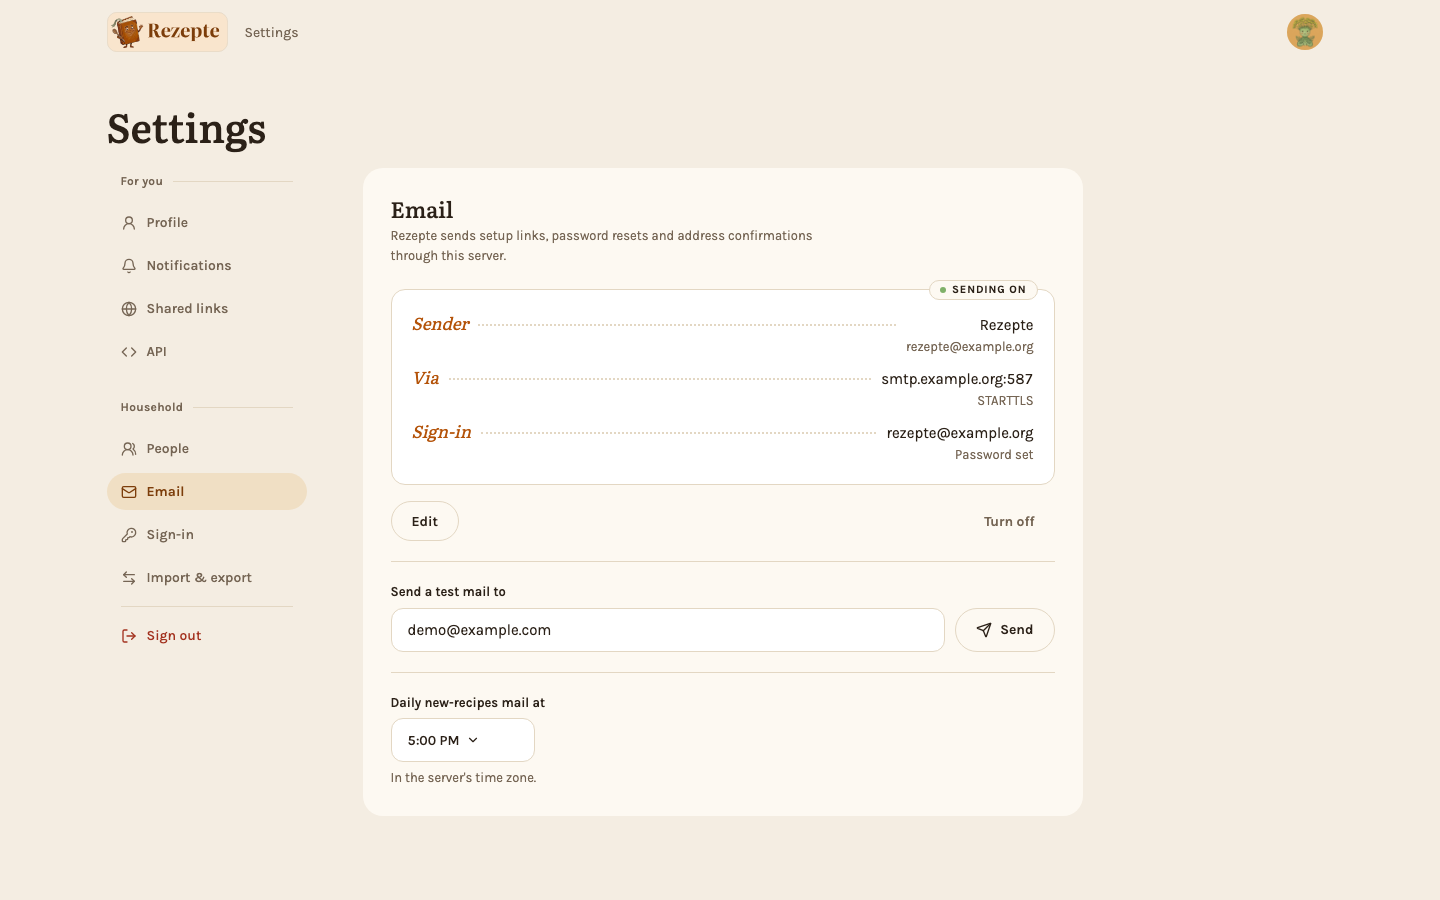
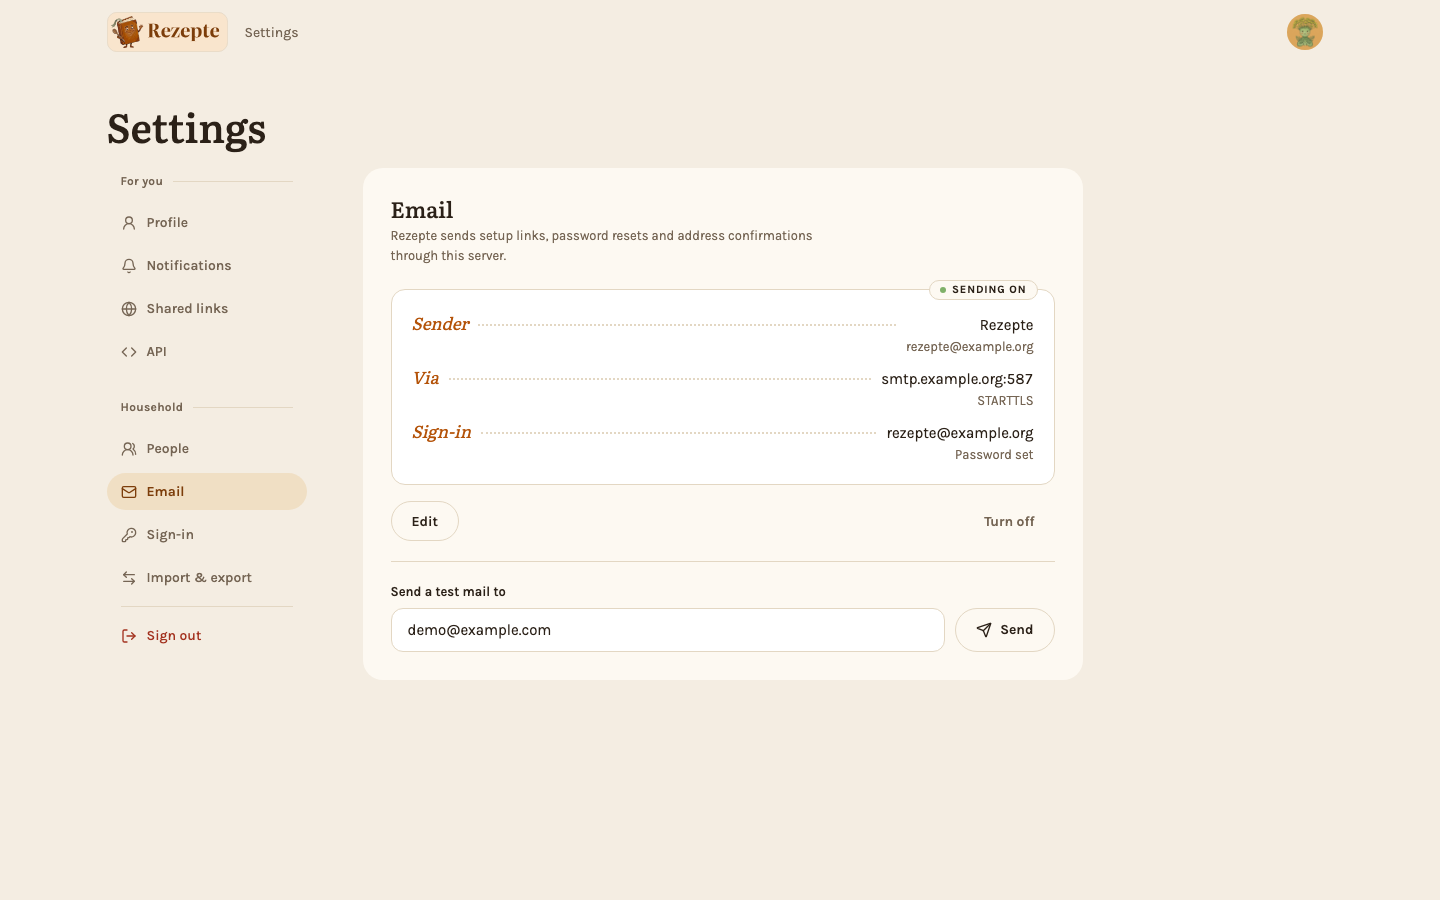
feat(frontend): set the daily new-recipes hour under Notifications
The hour governs mail and push alike and the digest runs with mail off, so it moves from the Email card to an owner-only block on Settings → Notifications.

Changed region(s): [[0.25, 0.7778, 0.375, 0.8711]]

diff --git a/frontend/src/lib/components/settings/NotificationsCard.svelte b/frontend/src/lib/components/settings/NotificationsCard.svelte
@@ -21,20 +21,26 @@
 		type Prefs
 	} from '#lib/api/notifications.js';
 	import { session } from '#lib/auth.svelte.js';
+	import { updateSettings } from '#lib/api/settings.js';
 	import { deviceState, enableDevice, sendPushTest } from '#lib/push.svelte.js';
 	import StatusBox from '#lib/components/settings/StatusBox.svelte';
 	import Button from '#lib/components/ui/Button.svelte';
 	import SegmentedControl from '#lib/components/ui/SegmentedControl.svelte';
+	import Select from '#lib/components/ui/Select.svelte';
 	import Switch from '#lib/components/ui/Switch.svelte';
 	import { m } from '#lib/paraglide/messages.js';
+	import { getLocale } from '#lib/paraglide/runtime.js';
 
 	let {
 		prefs: loaded,
-		mailEnabled
+		mailEnabled,
+		digestHour: loadedHour
 	}: {
 		/** The kinds and groups the account may have; null when they could not be read. */
 		prefs: Prefs | null;
 		mailEnabled: boolean;
+		/** The hour of the daily new recipes; null when the settings could not be read. */
+		digestHour: number | null;
 	} = $props();
 
 	// Written over by every flip, reseeded by a new load.
@@ -170,6 +176,32 @@
 			);
 		} finally {
 			testing = false;
+		}
+	}
+
+	// The daily new recipes' hour is the instance's, for mail and push alike:
+	// only the owner may set it, so only the owner sees it.
+	let digestHour = $derived(loadedHour);
+
+	// Each hour as the locale writes a time: 17:00, 5:00 PM.
+	const hourOptions = $derived.by(() => {
+		const format = new Intl.DateTimeFormat(getLocale(), { hour: 'numeric', minute: '2-digit' });
+		return Array.from({ length: 24 }, (_, hour) => ({
+			value: String(hour),
+			label: format.format(new Date(2000, 0, 1, hour))
+		}));
+	});
+
+	// Applies on pick; a failed write snaps back to what was saved.
+	async function saveHour(hour: number) {
+		const before = digestHour;
+		digestHour = hour;
+		try {
+			digestHour = (await updateSettings({ recipeDigestHour: hour })).recipeDigestHour;
+			toast.success(m.settings_notifications_digest_saved());
+		} catch (error) {
+			digestHour = before;
+			if (!isSignedOut(error)) toast.error(m.settings_notifications_save_error());
 		}
 	}
 
@@ -376,4 +408,28 @@
 			</div>
 		</section>
 	{/each}
+	{#if isOwner && digestHour !== null}
+		<!-- The owner's, apart from both channels: it sets when the household hears of new recipes. -->
+		<div
+			class="{blockClass} mt-7 flex flex-col gap-2.5 px-4 py-3 md:flex-row md:items-center md:justify-between md:gap-4"
+		>
+			<div class="min-w-0">
+				<p class="flex flex-wrap items-center gap-2 text-body font-semibold">
+					{m.settings_notifications_digest_label()}
+					<span
+						class="rounded-pill bg-accent px-2 text-label font-bold text-accent-foreground uppercase"
+						>{m.users_role_owner()}</span
+					>
+				</p>
+				<p class="mt-0.5 text-caption text-text-muted">{m.settings_notifications_digest_hint()}</p>
+			</div>
+			<Select
+				value={String(digestHour)}
+				options={hourOptions}
+				label={m.settings_notifications_digest_label()}
+				onchange={(next) => void saveHour(Number(next))}
+				class="w-36 shrink-0 bg-surface"
+			/>
+		</div>
+	{/if}
 </section>

diff --git a/frontend/e2e/notifications.test.ts b/frontend/e2e/notifications.test.ts
@@ -70,6 +70,70 @@ test('the owner is offered to set up mail', async ({ page }) => {
 	);
 });
 
+// The hour is the instance's: one project moves it, and puts it back.
+test('the owner sets the daily new recipes hour, with mail and without', async ({
+	page,
+	browser
+}) => {
+	test.skip(test.info().project.name !== 'desktop', 'instance-wide hour; runs once, on desktop');
+	// Answered, not set: mail settings belong to mail.test.ts.
+	let mailEnabled = false;
+	await page.route('**/api/v1/settings', async (route) => {
+		const response = await route.fetch();
+		await route.fulfill({ response, json: { ...(await response.json()), mailEnabled } });
+	});
+	await login(page);
+	await page.goto('/settings/notifications');
+	const hour = page.getByRole('button', { name: 'Daily new recipes at' });
+	/** Picks `to` over `from` and checks it outlives a reload. */
+	async function move(from: string, to: string) {
+		await expect(hour).toContainText(from);
+		await hour.click();
+		await page.getByRole('option', { name: to }).click();
+		await expect(page.getByText('Send time saved').last()).toBeVisible();
+		await page.reload();
+		await expect(hour).toContainText(to);
+	}
+
+	// Without mail the digest still pushes, so the hour is there.
+	await expect(page.getByText("Mail isn't set up on this instance")).toBeVisible();
+	await move('5:00 PM', '7:00 AM');
+	// With mail, the same hour; back to the default for the tests after this one.
+	mailEnabled = true;
+	await page.reload();
+	await expect(page.getByText("Mail isn't set up on this instance")).toHaveCount(0);
+	await move('7:00 AM', '5:00 PM');
+
+	// A failed write snaps back.
+	await page.route('**/api/v1/settings', (route) =>
+		route.request().method() === 'PATCH' ? route.fulfill({ status: 500 }) : route.fallback()
+	);
+	await hour.click();
+	await page.getByRole('option', { name: '9:00 AM' }).click();
+	await expect(page.getByText('The change could not be saved.')).toBeVisible();
+	await expect(hour).toContainText('5:00 PM');
+	await page.unrouteAll();
+
+	// Settings that cannot be read hide only the hour, not the page.
+	await page.route('**/api/v1/settings', (route) => route.fulfill({ status: 500 }));
+	await page.reload();
+	await expect(page.getByRole('region', { name: 'By mail' })).toBeVisible();
+	await expect(hour).toHaveCount(0);
+
+	// An admin may not set it, so sees neither the hour nor the mail page.
+	const name = `digest${uniqueToken()}`;
+	await page.unrouteAll();
+	await createUser(page, { username: name, role: 'admin' });
+	const other = await browser.newPage();
+	await login(other, name);
+	await other.goto('/settings/notifications');
+	await expect(other.getByRole('region', { name: 'By mail' })).toBeVisible();
+	await expect(other.getByRole('button', { name: 'Daily new recipes at' })).toHaveCount(0);
+	await other.goto('/settings/mail');
+	await expect(other).toHaveURL(/\/settings$/);
+	await other.close();
+});
+
 test('the notifications page fits a 360px phone', async ({ page }) => {
 	await page.setViewportSize({ width: 360, height: 780 });
 	// The owner with a long confirmed address: every group and its switches show.

diff --git a/frontend/src/lib/components/settings/MailCard.svelte b/frontend/src/lib/components/settings/MailCard.svelte
@@ -3,13 +3,10 @@
 	import { toast } from 'svelte-sonner';
 	import { isSignedOut } from '#lib/api/client.js';
 	import { clearMailSettings, getMailSettings, type MailSettings } from '#lib/api/mail.js';
-	import { getSettings, updateSettings } from '#lib/api/settings.js';
 	import Button from '#lib/components/ui/Button.svelte';
 	import ConfirmDialog from '#lib/components/ui/ConfirmDialog.svelte';
-	import Select from '#lib/components/ui/Select.svelte';
 	import Skeleton from '#lib/components/ui/Skeleton.svelte';
 	import { m } from '#lib/paraglide/messages.js';
-	import { getLocale } from '#lib/paraglide/runtime.js';
 	import Letterhead, { type LetterheadLine } from './Letterhead.svelte';
 	import MailSettingsDialog from './MailSettingsDialog.svelte';
 	import TestMailRow, { type TestMailResult } from './TestMailRow.svelte';
@@ -19,42 +16,14 @@
 	let editOpen = $state(false);
 	let turnOffOpen = $state(false);
 	let result = $state<TestMailResult | null>(null);
-	// The daily new recipes mail's hour; null until read, and when it cannot
-	// be, which hides only its select.
-	let digestHour = $state<number | null>(null);
 
 	onMount(async () => {
-		void getSettings()
-			.then((s) => (digestHour = s.recipeDigestHour))
-			.catch(() => null);
 		try {
 			current = await getMailSettings();
 		} catch (error) {
 			loadFailed = !isSignedOut(error);
 		}
 	});
-
-	// Each hour as the locale writes a time: 17:00, 5:00 PM.
-	const hourOptions = $derived.by(() => {
-		const format = new Intl.DateTimeFormat(getLocale(), { hour: 'numeric', minute: '2-digit' });
-		return Array.from({ length: 24 }, (_, hour) => ({
-			value: String(hour),
-			label: format.format(new Date(2000, 0, 1, hour))
-		}));
-	});
-
-	// Applies on pick; a failed write snaps back to what was saved.
-	async function saveHour(hour: number) {
-		const before = digestHour;
-		digestHour = hour;
-		try {
-			digestHour = (await updateSettings({ recipeDigestHour: hour })).recipeDigestHour;
-			toast.success(m.settings_mail_digest_saved());
-		} catch (error) {
-			digestHour = before;
-			if (!isSignedOut(error)) toast.error(m.settings_mail_save_error());
-		}
-	}
 
 	// A letterhead: the same three lines whether set up or not, so the card
 	// keeps its shape when mail is turned on and only the lines fill in. Each
@@ -161,19 +130,6 @@
 			{/if}
 			{#if current.source !== 'none'}
 				<div class="mt-5 border-t border-border pt-5"><TestMailRow bind:result /></div>
-				{#if digestHour !== null}
-					<div class="mt-5 border-t border-border pt-5">
-						<p class="mb-1.5 text-caption font-semibold">{m.settings_mail_digest_label()}</p>
-						<Select
-							value={String(digestHour)}
-							options={hourOptions}
-							label={m.settings_mail_digest_label()}
-							onchange={(next) => void saveHour(Number(next))}
-							class="w-36 bg-surface-elevated"
-						/>
-						<p class="mt-1.5 text-caption text-text-muted">{m.settings_mail_digest_hint()}</p>
-					</div>
-				{/if}
 			{/if}
 		{/if}
 	{/if}

diff --git a/frontend/e2e/mail.test.ts b/frontend/e2e/mail.test.ts
@@ -72,42 +72,6 @@ test('the owner sets up mail and sends a test', async ({ page, request }) => {
 	expect((await latestMailTo(request, to)).subject).toBe('Rezepte can send mail');
 });
 
-test('the owner moves the new recipes mail; an admin never sees the mail page', async ({
-	page,
-	browser
-}) => {
-	await login(page);
-	await configure(page, mailpitSmtpPort);
-	const card = page.getByRole('region', { name: 'Email' });
-	const hour = card.getByRole('button', { name: 'Daily new-recipes mail at' });
-	await expect(hour).toContainText('5:00 PM');
-	await hour.click();
-	await page.getByRole('option', { name: '7:00 AM' }).click();
-	await expect(page.getByText('Send time saved')).toBeVisible();
-	await page.reload();
-	await expect(hour).toContainText('7:00 AM');
-	// Back to the default for the tests after this one.
-	await hour.click();
-	await page.getByRole('option', { name: '5:00 PM' }).click();
-	await expect(page.getByText('Send time saved').first()).toBeVisible();
-
-	// Settings that cannot be read hide only the hour, not the card.
-	await page.route('**/api/v1/settings', (route) => route.fulfill({ status: 500 }));
-	await page.reload();
-	await expect(card.getByText('Sending on')).toBeVisible();
-	await expect(card.getByLabel('Send a test mail to')).toBeVisible();
-	await expect(hour).toHaveCount(0);
-	await page.unroute('**/api/v1/settings');
-
-	const name = `digest-${uniqueToken()}`;
-	await createUser(page, { username: name, role: 'admin' });
-	const other = await browser.newPage();
-	await login(other, name);
-	await other.goto('/settings/mail');
-	await expect(other).toHaveURL(/\/settings$/);
-	await other.close();
-});
-
 test('an invited person sets up their account from the mail', async ({
 	page,
 	request,

diff --git a/frontend/src/routes/settings/notifications/+page.ts b/frontend/src/routes/settings/notifications/+page.ts
@@ -6,12 +6,17 @@ import type { PageLoad } from './$types';
 // login with this page as `next`, where an API call of its own would have
 // got there first, from the page the browser is still on.
 // Both calls fail soft: the card says the switches could not be read, and
-// without the settings it leaves out the "mail is not set up" line.
+// without the settings it leaves out the "mail is not set up" line and the
+// owner's hour of the daily new recipes.
 export const load: PageLoad = async ({ parent }) => {
 	await parent();
 	const [prefs, settings] = await Promise.all([
 		getNotificationPrefs().catch(() => null),
 		getSettings().catch(() => null)
 	]);
-	return { prefs, mailEnabled: settings?.mailEnabled ?? true };
+	return {
+		prefs,
+		mailEnabled: settings?.mailEnabled ?? true,
+		digestHour: settings?.recipeDigestHour ?? null
+	};
 };

diff --git a/frontend/src/routes/settings/notifications/+page.svelte b/frontend/src/routes/settings/notifications/+page.svelte
@@ -10,5 +10,9 @@
 <svelte:head><title>{m.settings_nav_notifications()} · {m.app_name()}</title></svelte:head>
 
 <SettingsLayout active="notifications">
-	<NotificationsCard prefs={data.prefs} mailEnabled={data.mailEnabled} />
+	<NotificationsCard
+		prefs={data.prefs}
+		mailEnabled={data.mailEnabled}
+		digestHour={data.digestHour}
+	/>
 </SettingsLayout>
